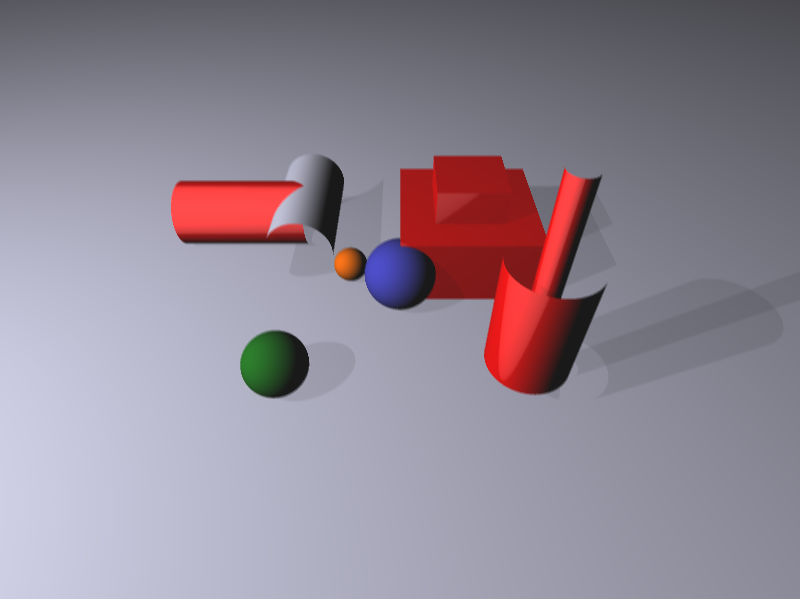
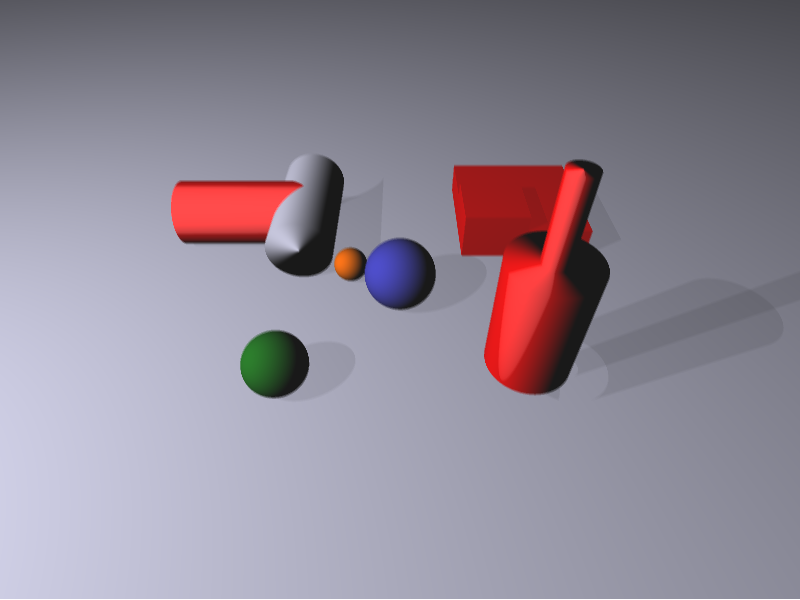
Started building site.

Changed region(s): [[0.5, 0.24, 0.7812, 0.51], [0.3125, 0.36, 0.4375, 0.48]]

diff --git a/src/github.com/LeonLeibbrandt/raygun/objects.go b/src/github.com/LeonLeibbrandt/raygun/objects.go
@@ -187,20 +187,20 @@ func (c *Cube) Intersect(r *Ray, i int) bool {
 	return false
 }
 
-func (c *Cube) getNormal(p *Vector) *Vector {
+func (c *Cube) getNormal(point *Vector) *Vector {
 
 	switch {
-	case p.x < c.min.x+EPS:
+	case point.x < c.min.x+EPS:
 		return &Vector{-1, 0, 0}
-	case p.x > c.max.x-EPS:
+	case point.x > c.max.x-EPS:
 		return &Vector{1, 0, 0}
-	case p.y < c.min.y+EPS:
+	case point.y < c.min.y+EPS:
 		return &Vector{0, -1, 0}
-	case p.y > c.max.y-EPS:
+	case point.y > c.max.y-EPS:
 		return &Vector{0, 1, 0}
-	case p.z < c.min.z+EPS:
+	case point.z < c.min.z+EPS:
 		return &Vector{0, 0, -1}
-	case p.z > c.max.z-EPS:
+	case point.z > c.max.z-EPS:
 		return &Vector{0, 0, 1}
 	}
 	return &Vector{0, 1, 0}
@@ -289,7 +289,7 @@ func (y *Cylinder) Intersect(r *Ray, i int) bool {
 	if t0 < 0.0 {
 		t = t1
 	} else {
-		t = t0
+		t = math.Min(t0, t1)
 	}
 
 	if t > r.interDist {
@@ -298,12 +298,12 @@ func (y *Cylinder) Intersect(r *Ray, i int) bool {
 
 	t_k := t*m + n
 	if t_k < 0.0 {
-		// On start cap
+		// Could be on start cap
 		return false // y.intersectCap(r, i, true)
 	}
 
 	if t_k > 1.0 {
-		// On end cap
+		// Could be on end cap
 		return false // y.intersectCap(r, i, false)
 	}
 
